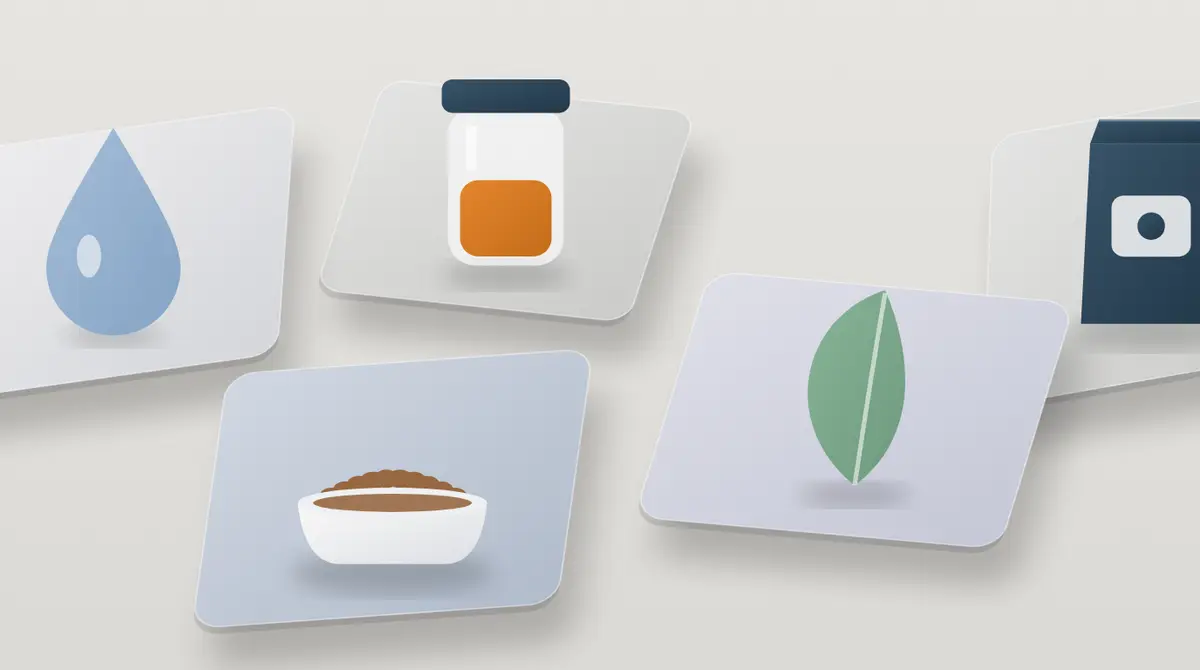
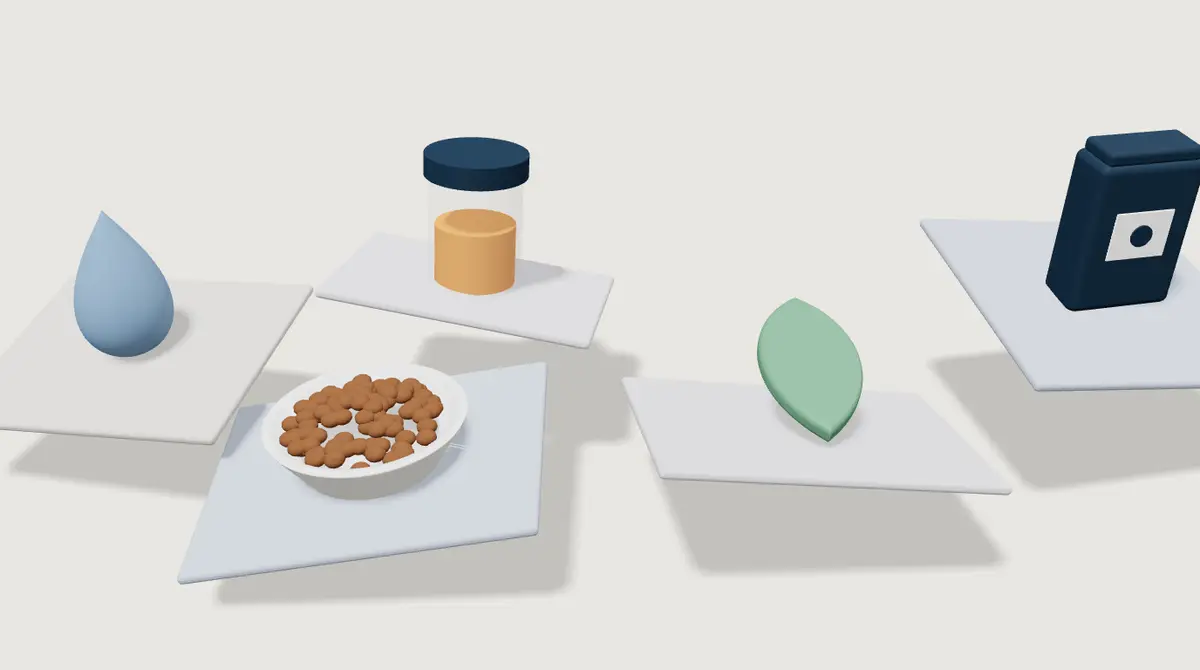
콘텐츠 표지 12장을 실제 3D 렌더로 (부드러운 그림자, 회색 입체 카드) (#50)
Claude-Session: https://claude.ai/code/session_01TcKTz7ncs25YpVZ36UnmVZ

Changed region(s): [[0.0, 0.1194, 1.0, 1.0], [0.7708, 0.3582, 0.8017, 0.4179], [0.8017, 0.4179, 0.8325, 0.4478]]

diff --git a/app.js b/app.js
@@ -1585,7 +1585,7 @@ const COVER_TONE = {
 const COVER_IMG = { 'label-read': 1, 'allergy': 1, 'tear-stain': 1, 'food-types': 1, 'price-gap': 1,
   'senior-vs': 1, 'additives': 1, 'carb-grainfree': 1, 'life-stage': 1, 'price-per-kg': 1, 'weight-manage': 1, 'rx-when': 1 };
 function articleCover(a, cls = '') {
-  const src = a.cover || (COVER_IMG[a.id] ? `assets/covers/${a.id}.webp?v=4` : '');
+  const src = a.cover || (COVER_IMG[a.id] ? `assets/covers/${a.id}.webp?v=5` : '');
   if (/^(https?:|assets\/)/.test(src)) return `<span class="ac ${cls}"><img src="${esc(src)}" alt="" loading="lazy"></span>`;
   const [bg, fg] = COVER_TONE[a.cat] || ['var(--surface)', 'var(--ink70)'];
   return `<span class="ac ${cls}" style="--cbg:${bg};--cfg:${fg}" aria-hidden="true">

diff --git a/index.html b/index.html
@@ -71,7 +71,7 @@ const COUNTRY_KO = {KR:'대한민국',CA:'캐나다',US:'미국',FR:'프랑스',
   DE:'독일',IT:'이탈리아',NL:'네덜란드',BE:'벨기에',GB:'영국',JP:'일본',TH:'태국'};
 const SHOP_KO = {coupang:'쿠팡',brand_official:'공식몰',naver:'네이버',other:'판매처'};
 </script>
-<script src="app.js?v=202610092000"></script>
+<script src="app.js?v=202610092100"></script>
 <script src="native.js?v=202610080838"></script>
 </body>
 </html>
